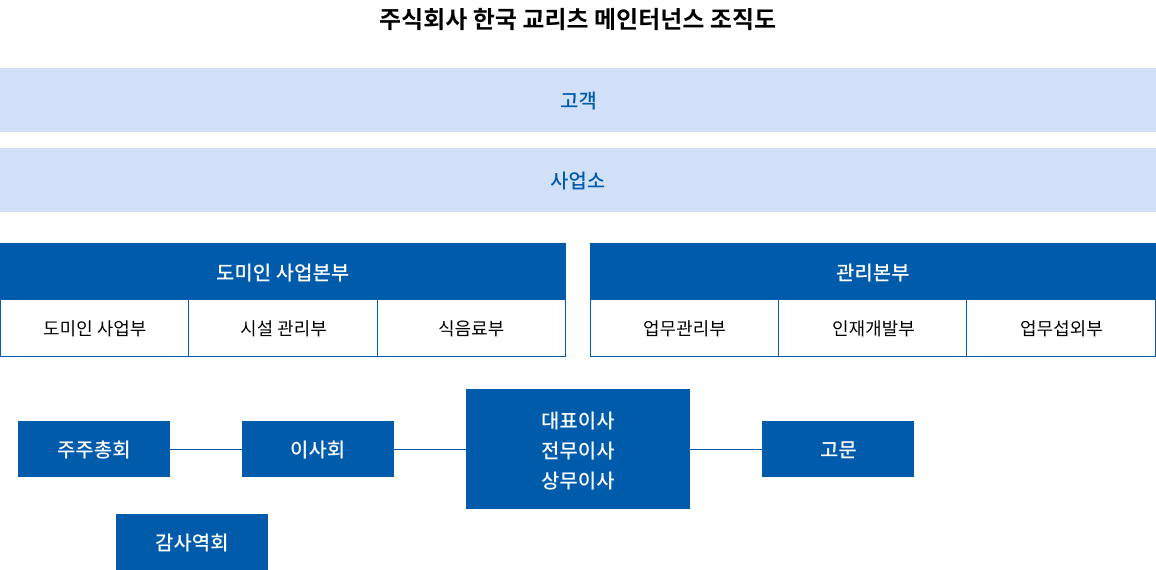
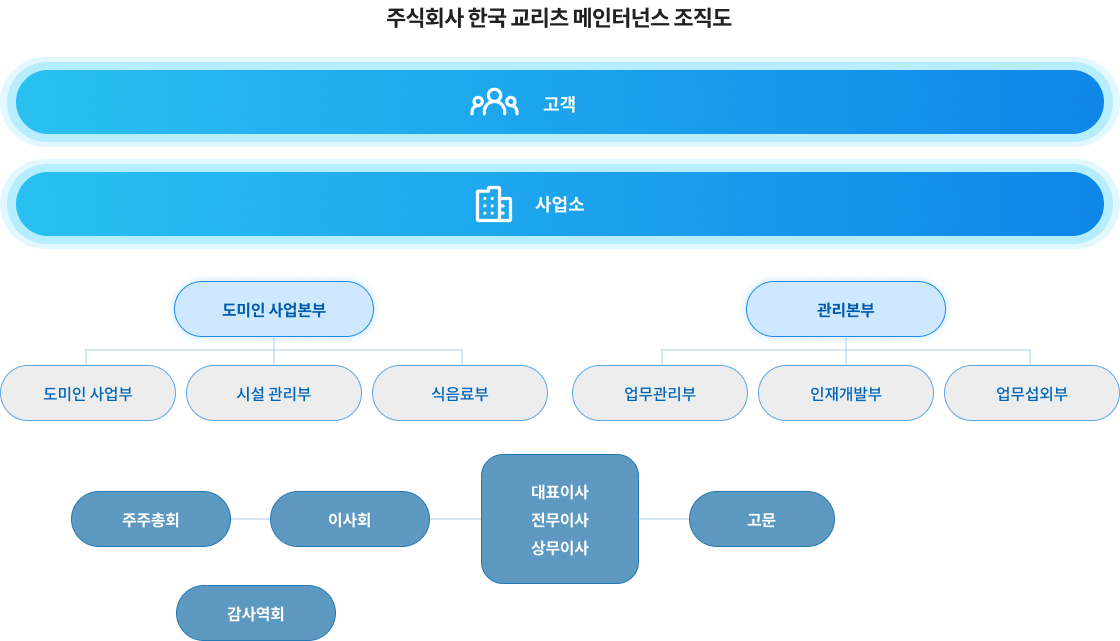
[240111] 조직도 이미지, 지도 위치내용, runner 셋팅값 변경

diff --git a/src/main/resources/templates/main/intro/location.html b/src/main/resources/templates/main/intro/location.html
@@ -72,7 +72,7 @@
                         <div class="top">
                             <h3>교리츠 <span>본사</span></h3>
                             <ul>
-                                <li><h4>경기도 안양시 동안구 시민대로 109번길 11</h4></li>
+                                <li><h4>서울시 강남구 봉은사로 129 서평타운 314호</h4></li>
                                 <li></li>
                                 <li><a href=""><p>길찾기</p>
 <!--                                    <img src="images/contact/contact_arrow.png" alt="">-->

diff --git a/src/main/java/com/enicom/board/kyoritsu/runner/MainDataInitRunner.java b/src/main/java/com/enicom/board/kyoritsu/runner/MainDataInitRunner.java
@@ -56,7 +56,7 @@ public class MainDataInitRunner implements ApplicationRunner {
         // 기본 mainMenu (MainMenuType.GROUP) 정의
         MainMenu company = MainMenu.builder().order(1).name("회사소개").nameEnglish("About Us").nameJapanese("会社紹介").type(MainMenuType.GROUP).build();
         MainMenu product = MainMenu.builder().order(2).name("사업영역").nameEnglish("Business area").nameJapanese("事業領域").type(MainMenuType.GROUP).build();
-        MainMenu notice = MainMenu.builder().order(3).name("뉴스").nameEnglish("announcement").nameJapanese("お知らせ").type(MainMenuType.GROUP).build();
+        MainMenu notice = MainMenu.builder().order(3).name("공지사항").nameEnglish("announcement").nameJapanese("お知らせ").type(MainMenuType.GROUP).build();
         MainMenu recruit = MainMenu.builder().order(4).name("채용정보").nameEnglish("Recruitment information").nameJapanese("採用情報").type(MainMenuType.GROUP).build();
 
         // 기존 mainMenu 그룹에 추가되어 있지 않은 mainMenu라면, mainMenuGroupList에 추가
